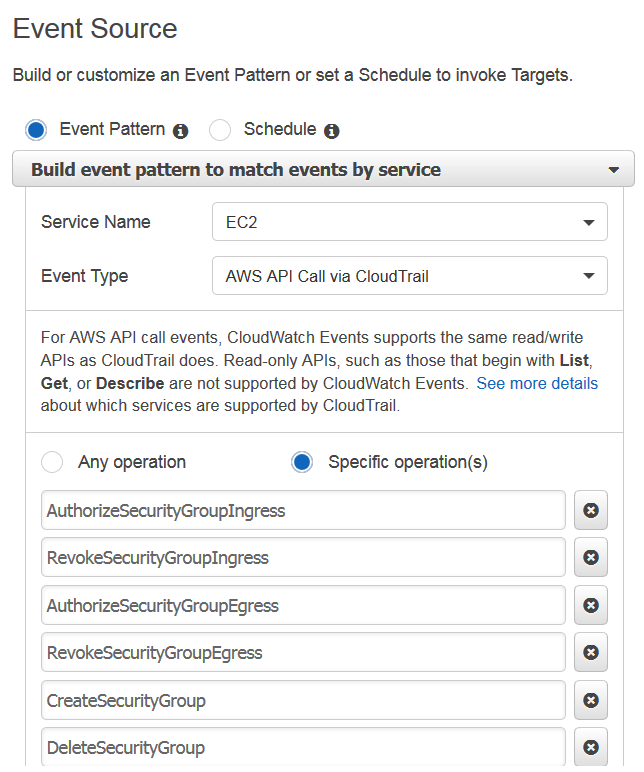
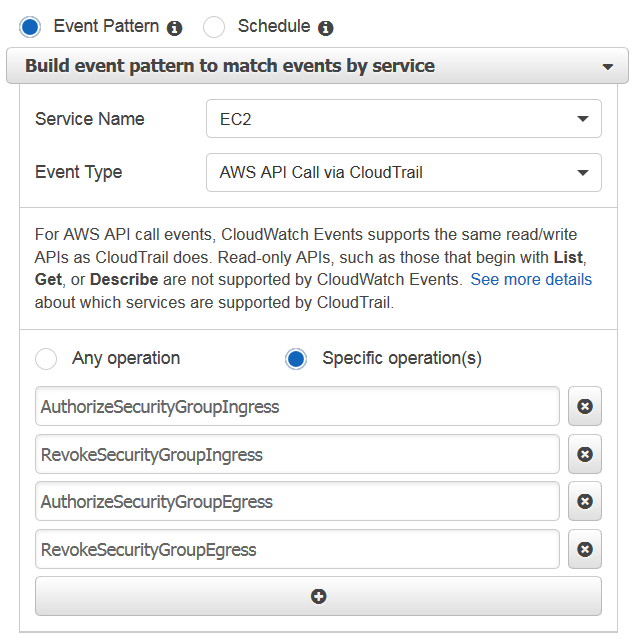
initial trackr documentation

Changed region(s): [[0.0, 0.0596, 1.0, 1.0], [0.0, 0.0, 0.3006, 0.0596], [0.3608, 0.0298, 0.5411, 0.0596]]

diff --git a/docs/Trackr_Setup.md b/docs/Trackr_Setup.md
@@ -1,0 +1,12 @@
+Trackr
+
+---Initial Setup---
+
+Create a new CoudTrail for Trackr.
+Create a new CloudWatch alarm. Select the Custom Metric, CoudTrailMetrics. Select Metric Name, SecurityGroupEventCount. Trigger when SecurityGroupEventCount is >= 1. Create a new CloudWatch Rule. Set up Event Source as so:
+
+![alt text](https://github.com/Optum/ChaoSlingr/blob/trackr_doc/docs/trackr-rule.png)
+
+Go to Lambda function and add trigger, CloudWatch Events, and use the CloudWatch Rule created earlier.
+
+<---Lambda Function Description--->
